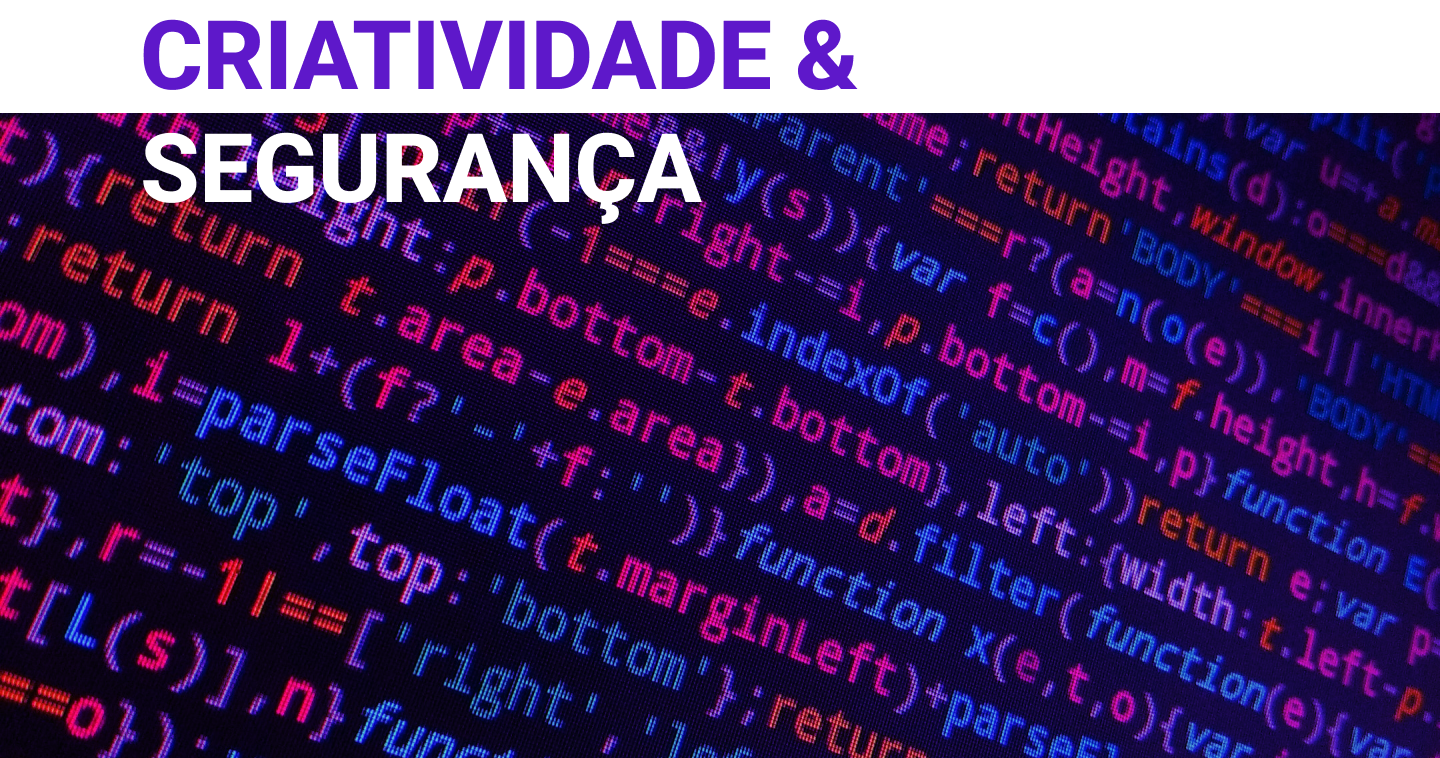
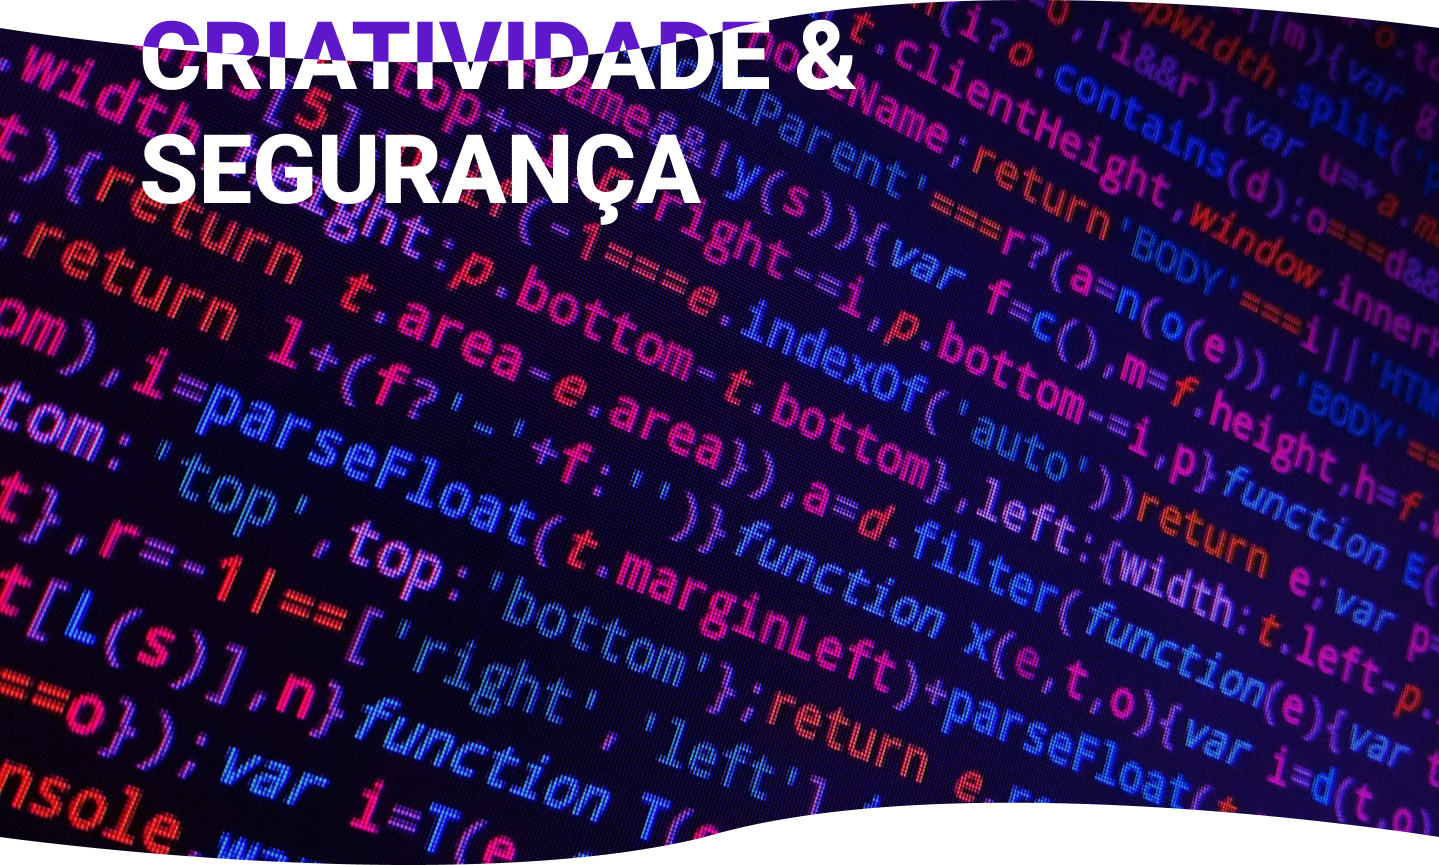
[REFACTOR] Ajuste de backgrounds

diff --git a/src/index.css b/src/index.css
@@ -431,7 +431,7 @@
 .bg-div3 {
   background-image: url("./assets/div3.png");
   height: 978px;
-  margin-top: 95px;
+  margin-top: -95px;
 }
 
 .title-div3 {
@@ -1134,6 +1134,7 @@
   width: 100%;
   height: 750px;
   margin-top: -8%;
+  z-index: 7;
 }
 
 .title-web{
@@ -1245,7 +1246,7 @@
 }
 
 .title-servicos-web{
-  margin-top: 10%;
+  margin-top: 12%;
 
   font-family: 'Poppins';
   font-style: normal;
@@ -1516,12 +1517,10 @@
 }
 
 .bg-div3-web{
-  background-color: #5E18CA;
+  background-image: url(./assets/bg-dif-home.png);
+  height: 845px;
+  margin-top: -17%;
   padding-bottom: 10%;
-}
-
-.servicos-bg{
-
 }
 
 .title-div3-web {
@@ -1648,7 +1647,7 @@
 }
 
 .sticky-div{
-  margin-bottom: 30%;
+  margin-bottom: 10%;
 }
 
 .text-portfolio-web{
@@ -2197,6 +2196,9 @@
   margin-top: 9.85%;
 }
 
+.blank3{
+}
+
 .bg-port-sites{
   background: rgba(red, green, blue, .05);
   background-image: url('./assets/bg-port-sites.png');
@@ -2205,14 +2207,18 @@
   }
 
 .blank2{
-  margin-top: 12%;
+  margin-top: 50%;
 }
 
+.blank3{
+  margin-top: 20%;
+}
 
 .bg-div3-sites-web{
   background-image: url('./assets/bg-dif-sites.png');
   height: 1170px;
   width: 1366px;
+  margin-top: -2%;
    
 }
 
@@ -2299,7 +2305,7 @@
 }
 
 .div-orcamento-web{
-  margin-top: -10%;
+  margin-top: -60%;
   display: flex;
   align-items: center;
   justify-content: center;

diff --git a/src/components/Div1Seguranca.jsx b/src/components/Div1Seguranca.jsx
@@ -1,6 +1,6 @@
 import React from 'react'
 import { isMobile } from 'react-device-detect'
-import { backgroundDesktop, desktop } from '../assets'
+import { backgroundDesktop, bgDivSeguranca, desktop } from '../assets'
 import styles from '../style'
 
 const Div1Seguranca = () => {
@@ -24,9 +24,7 @@ const Div1Seguranca = () => {
             <section id="home" className={`md:flex-row flex-col ${styles.paddingY}`}>
 
                 
-                <div className='bg-div-seguranca-web' >
-                    <h1>ESTILO</h1>
-                </div>
+                <img src={bgDivSeguranca}></img>
                 <div className='bg-port-sites'>
                     <h1 className='blank'>.</h1>
                     <h1 className='conteudo-sites'>SEU NEGÓCIO MAIS</h1>

diff --git a/src/components/Div1Apps.jsx b/src/components/Div1Apps.jsx
@@ -1,6 +1,6 @@
 import React from 'react'
 import { isMobile } from 'react-device-detect'
-import { backgroundApps, celulares3, imgDivSites } from '../assets'
+import { backgroundApps, bgDivApp, celulares3, imgDivSites } from '../assets'
 import styles from '../style'
 
 const Div1Apps = () => {
@@ -24,9 +24,8 @@ const Div1Apps = () => {
             <section id="home" className={`md:flex-row flex-col ${styles.paddingY}`}>
 
                 
-                <div className='bg-div-apps-web' >
-                    <h1>ESTILO</h1>
-                </div>
+                <img src={bgDivApp}></img>
+
                 <div className='bg-port-sites'>
                     <h1 className='blank'>.</h1>
                     <h1 className='conteudo-sites'>APPS LEVES E</h1>

diff --git a/src/components/Servicos.jsx b/src/components/Servicos.jsx
@@ -27,11 +27,13 @@ const Servicos = () => {
     )
   } else {
     return (
-      <section id="servicos" className={`${styles.paddingX} container-contac`}>
-        <div className='content-center servicos-bg'>
+      <section id="servicos" className={`container-contac`}>
+        <div className='content-center bg-port-sites'>
+          <h1>.</h1>
           <h1 className='title-servicos-web'>O QUE PODEMOS SOLUCIONAR PARA</h1>
           <h1 className='title-servicos-web2'>VOCÊ?</h1>
           <img src={card1web} className="sticky-div"></img>
+          <h1 className='blank3'>.</h1>
         </div>
       </section>
     )

diff --git a/src/components/Contato.jsx b/src/components/Contato.jsx
@@ -72,14 +72,7 @@ const Contato = () => {
               </div>
             </a>
           </div>
-          <div className='container-wpp'>
-            <h1 className='whatsapp-text-web'>Ou nos chame pelo whatsapp!</h1>
-            <div className='whatsapp'>
-              <a href="https://wa.me/5513996237281?text=Olá!%20Desejo%20saber%20mais%20sobre%20os%20serviços%20da%20Littera!">
-                <img className='whatsapp' src={whatsappGold}/>
-              </a>
-            </div>
-          </div>
+          
         </div>          
       </div>
     )

diff --git a/src/assets/index.js b/src/assets/index.js
@@ -73,6 +73,8 @@ import up from "./up.png"
 import down from "./down.png"
 import bgDivSite from "./bg-div-sites-web.png"
 import textDiv from "./text-div.png"
+import bgDivApp from "./div1AppsWeb.png"
+import bgDivSeguranca from "./bg-div-background-seguranca.png"
 
  
 
@@ -151,6 +153,8 @@ export {
   up,
   down,
   bgDivSite,
-  textDiv
+  textDiv,
+  bgDivApp,
+  bgDivSeguranca
     
 };
